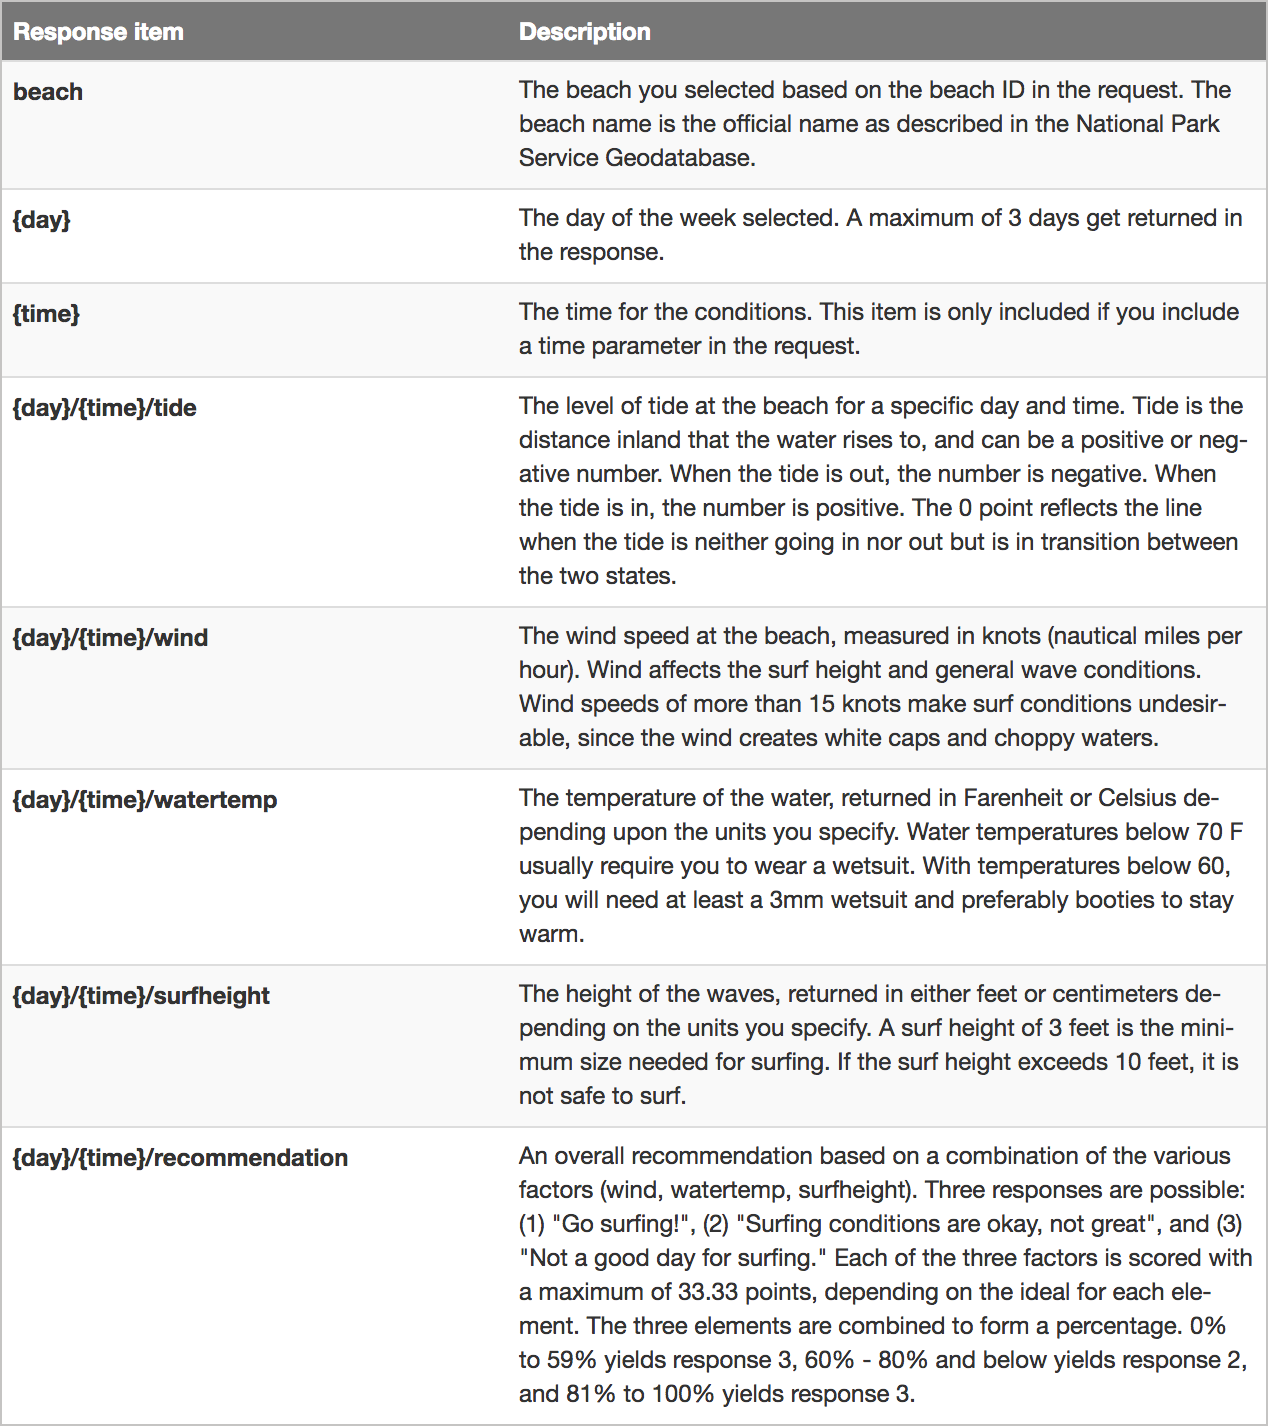
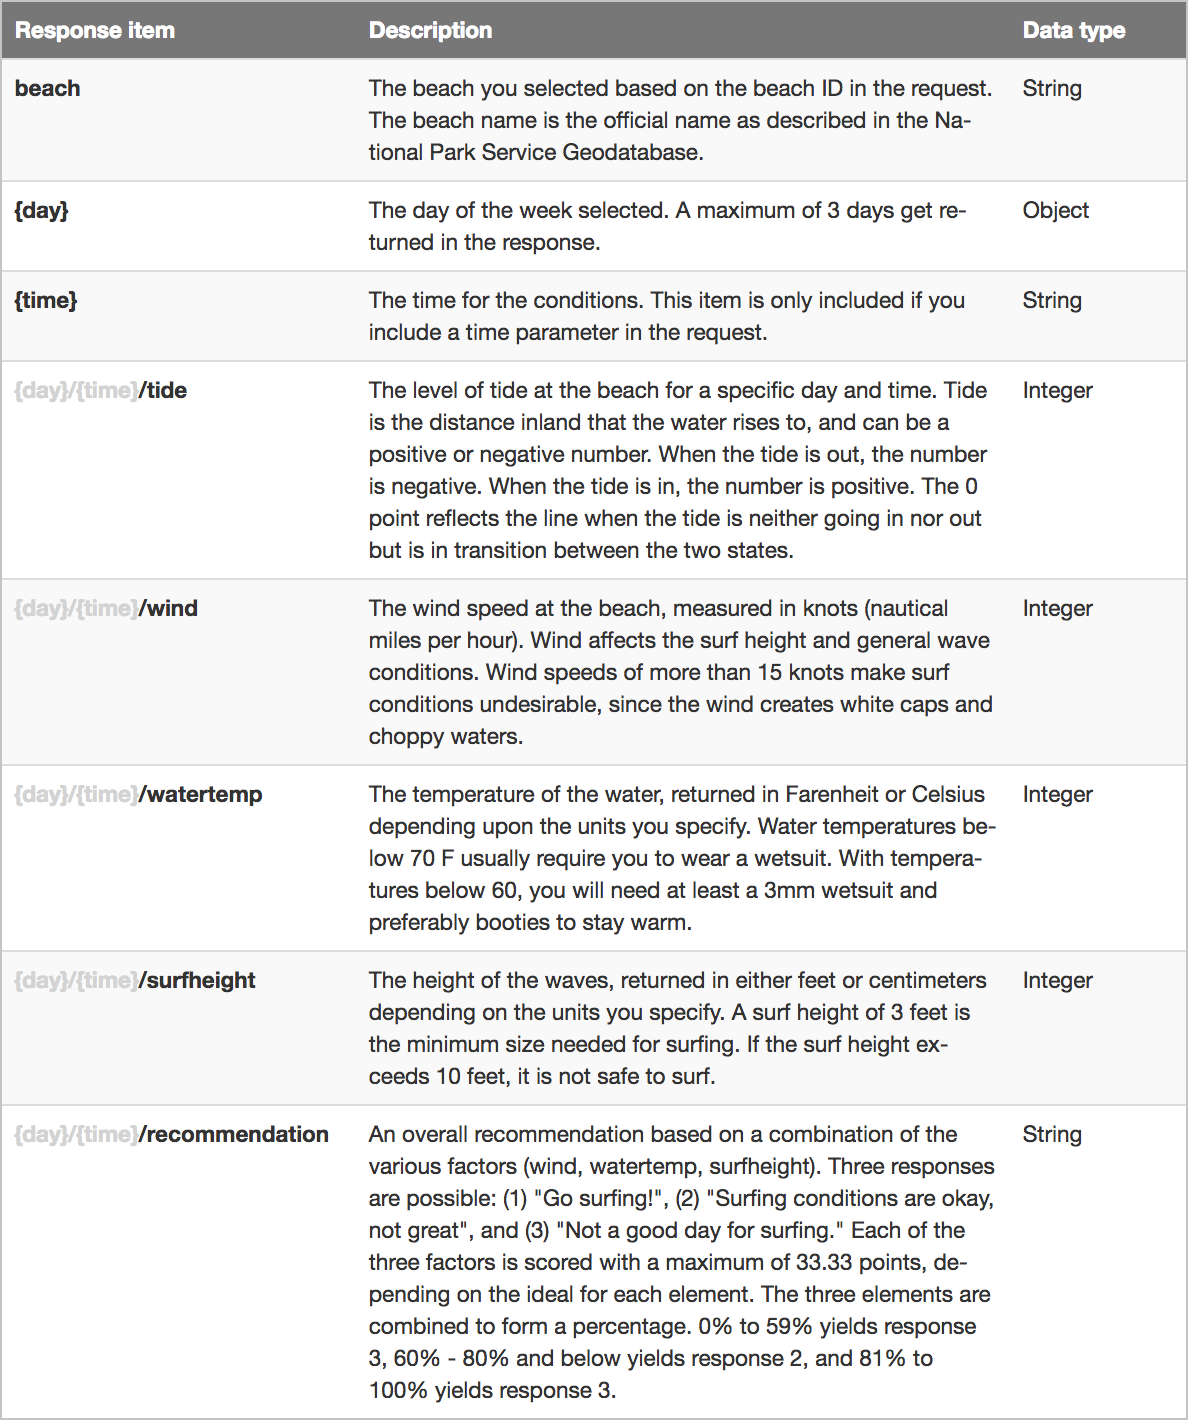
updates to final result for api ref sample

diff --git a/_sass/custom.scss b/_sass/custom.scss
@@ -39,7 +39,7 @@ i {
 }
 
 span.muted {
-    color: lightgray;
+    color: gray;
 }
 
 /* search */

diff --git a/_docs/documenting_rest_api_endpoints/docapis_finished_doc_result.md b/_docs/documenting_rest_api_endpoints/docapis_finished_doc_result.md
@@ -124,85 +124,141 @@ curl --get --include 'https://simple-weather.p.mashape.com/surfreport/123?units=
 }
 </pre>
 
+<h2>Sample response</h2>
+
+<p>The following is a sample response from the <code>surfreport/{beachId}</code> endpoint:</p>
+
+<pre class="json">
+{
+    "surfreport": [
+        {
+            "beach": "Santa Cruz",
+            "monday": {
+                "1pm": {
+                    "tide": 5,
+                    "wind": 15,
+                    "watertemp": 80,
+                    "surfheight": 5,
+                    "recommendation": "Go surfing!"
+                },
+                "2pm": {
+                    "tide": -1,
+                    "wind": 1,
+                    "watertemp": 50,
+                    "surfheight": 3,
+                    "recommendation": "Surfing conditions are okay, not great."
+                },
+                "3pm": {
+                    "tide": -1,
+                    "wind": 10,
+                    "watertemp": 65,
+                    "surfheight": 1,
+                    "recommendation": "Not a good day for surfing."
+                }
+            }
+        }
+    ]
+}
+</pre>
+
 <p>The following table describes each item in the response.</p>
 
 {% if site.format == "web" or site.format == "pdf" %}
-
-
 <table>
+<colgroup>
+   <col width="30%" />
+   <col width="55%" />
+   <col width="15%" />
+</colgroup>
 <thead>
 <tr>
 <th>Response item</th>
 <th>Description</th>
+<th>Data type</th>
 </tr>
-</thead>
-<tbody>
+</thead><tbody>
 <tr>
 <td><strong>beach</strong></td>
 <td>The beach you selected based on the beach ID in the request. The beach name is the official name as described in the National Park Service Geodatabase.</td>
+<td>String</td>
 </tr>
 <tr>
 <td><strong>{day}</strong></td>
 <td>The day of the week selected. A maximum of 3 days get returned in the response.</td>
+<td>Object</td>
 </tr>
 <tr>
 <td><strong>{time}</strong></td>
 <td>The time for the conditions. This item is only included if you include a time parameter in the request.</td>
+<td>String</td>
 </tr>
 <tr>
 <td><strong><span class="muted">{day}/{time}</span>/tide</strong></td>
 <td>The level of tide at the beach for a specific day and time. Tide is the distance inland that the water rises to, and can be a positive or negative number. When the tide is out, the number is negative. When the tide is in, the number is positive. The 0 point reflects the line when the tide is neither going in nor out but is in transition between the two states.</td>
+<td>Integer</td>
 </tr>
 <tr>
 <td><strong><span class="muted">{day}/{time}</span>/wind</strong></td>
-<td>The wind speed at the beach, measured in knots per hour or kilometers per hour depending on the units you specify. Wind affects the surf height and general wave conditions. Wind speeds of more than 15 knots per hour make surf conditions undesirable, since the wind creates white caps and choppy waters.</td>
+<td>The wind speed at the beach, measured in knots (nautical miles per hour). Wind affects the surf height and general wave conditions. Wind speeds of more than 15 knots make surf conditions undesirable, since the wind creates white caps and choppy waters.</td>
+<td>Integer</td>
 </tr>
 <tr>
 <td><strong><span class="muted">{day}/{time}</span>/watertemp</strong></td>
-<td>The temperature of the water, returned in Fahrenheit or Celsius depending upon the units you specify. Water temperatures below 70 F usually require you to wear a wetsuit. With temperatures below 60, you will need at least a 3mm wetsuit and preferably booties to stay warm.</td>
+<td>The temperature of the water, returned in Farenheit or Celsius depending upon the units you specify. Water temperatures below 70 F usually require you to wear a wetsuit. With temperatures below 60, you will need at least a 3mm wetsuit and preferably booties to stay warm.</td>
+<td>Integer</td>
 </tr>
 <tr>
 <td><strong><span class="muted">{day}/{time}</span>/surfheight</strong></td>
 <td>The height of the waves, returned in either feet or centimeters depending on the units you specify. A surf height of 3 feet is the minimum size needed for surfing. If the surf height exceeds 10 feet, it is not safe to surf.</td>
+<td>Integer</td>
 </tr>
 <tr>
 <td><strong><span class="muted">{day}/{time}</span>/recommendation</strong></td>
 <td>An overall recommendation based on a combination of the various factors (wind, watertemp, surfheight). Three responses are possible: (1) &quot;Go surfing!&quot;, (2) &quot;Surfing conditions are okay, not great&quot;, and (3) &quot;Not a good day for surfing.&quot; Each of the three factors is scored with a maximum of 33.33 points, depending on the ideal for each element. The three elements are combined to form a percentage. 0% to 59% yields response 3, 60% - 80% and below yields response 2, and 81% to 100% yields response 3.</td>
+<td>String</td>
 </tr>
-</tbody>
-</table>
+</tbody></table>
 
 {% elsif site.format == "kindle" %}
 
-{: .note}
-Tables don't display well on Kindle devices, so I've converted them into definition lists in this course. However, here I've also included an image of the table. Tables are more common and easier, but definition lists work better on mobile and tablet devices.
+<p class="note">Tables don't display well on Kindle devices, so I've converted them into definition lists in this course. However, here I've also included an image of the table. Tables are more common and easier to create, but definition lists work better on mobile and tablet devices.</p>
 
-<img src="images/kindle-table-finished-result-sample-response.png"/>
+<img src="images/kindle-table-surfreport.png" />
 
-`beach`
+<dl style="margin-top: 20px; margin-bottom: 20px;" markdown="block">
+<code>beach</code>
 :  The beach you selected based on the beach ID in the request. The beach name is the official name as described in the National Park Service Geodatabase.
+:  String
 
-`{day}`
+<code>{day}</code>
 :  The day of the week selected. A maximum of 3 days get returned in the response.
+:  Object
 
-`{time}`
+<code>{time}</code>
 :  The time for the conditions. This item is only included if you include a time parameter in the request.
+:  String
 
-<span class="muted"><code>{day}/{time}</code></span>/tide
+<code><span class="muted">{day}/{time}</span>/tide</code>
 :  The level of tide at the beach for a specific day and time. Tide is the distance inland that the water rises to, and can be a positive or negative number. When the tide is out, the number is negative. When the tide is in, the number is positive. The 0 point reflects the line when the tide is neither going in nor out but is in transition between the two states.
+:  Integer
 
-<span class="muted"><code>{day}/{time}</code></span>/wind
+<code><span class="muted">{day}/{time}</span>/wind</code>
 :  The wind speed at the beach, measured in knots (nautical miles per hour). Wind affects the surf height and general wave conditions. Wind speeds of more than 15 knots make surf conditions undesirable, since the wind creates white caps and choppy waters
+:  Integer
 
-<span class="muted"><code>{day}/{time}</code></span>/watertemp
+<code><span class="muted">{day}/{time}</span>/watertemp</code>
 :  The temperature of the water, returned in Farenheit or Celsius depending upon the units you specify. Water temperatures below 70 F usually require you to wear a wetsuit. With temperatures below 60, you will need at least a 3mm wetsuit and preferably booties to stay warm.
-{% else %}
+:  Integer
 
-<span class="muted"><code>{day}/{time}</code></span>/surfheight
+<code><span class="muted">{day}/{time}</span>/surfheight</code>
 :  The height of the waves, returned in either feet or centimeters depending on the units you specify. A surf height of 3 feet is the minimum size needed for surfing. If the surf height exceeds 10 feet, it is not safe to surf.
+:  Integer
 
-<span class="muted"><code>{day}/{time}</code></span>/recommendation
+<code><span class="muted">{day}/{time}</span>/recommendation</code>
 :  An overall recommendation based on a combination of the various factors (wind, watertemp, surfheight). Three responses are possible: (1) &quot;Go surfing!&quot;, (2) &quot;Surfing conditions are okay, not great&quot;, and (3) &quot;Not a good day for surfing.&quot; Each of the three factors is scored with a maximum of 33.33 points, depending on the ideal for each element. The three elements are combined to form a percentage. 0% to 59% yields response 3, 60% - 80% and below yields response 2, and 81% to 100% yields response 3.
+:  String
+
+</dl>
 {% endif %}
 
 

diff --git a/_docs/documenting_rest_api_endpoints/docapis_doc_sample_response.md b/_docs/documenting_rest_api_endpoints/docapis_doc_sample_response.md
@@ -149,7 +149,7 @@ Here's what mine looks like:
 
 <h2>Sample response</h2>
 
-The following is a sample response from the <code>surfreport/{beachId}</code> endpoint:
+<p>The following is a sample response from the <code>surfreport/{beachId}</code> endpoint:</p>
 
 <pre class="json">
 {
@@ -244,37 +244,44 @@ The following is a sample response from the <code>surfreport/{beachId}</code> en
 
 {% elsif site.format == "kindle" %}
 
-{: .note}
-Tables don't display well on Kindle devices, so I've converted them into definition lists in this course. However, here I've also included an image of the table. Tables are more common and easier to create, but definition lists work better on mobile and tablet devices.
+<p class="note">Tables don't display well on Kindle devices, so I've converted them into definition lists in this course. However, here I've also included an image of the table. Tables are more common and easier to create, but definition lists work better on mobile and tablet devices.</p>
 
 <img src="images/kindle-table-surfreport.png" />
 
-`beach`
+<dl style="margin-top: 20px; margin-bottom: 20px;" markdown="block">
+<code>beach</code>
 :  The beach you selected based on the beach ID in the request. The beach name is the official name as described in the National Park Service Geodatabase.
 :  String
 
-`{day}`
+<code>{day}</code>
 :  The day of the week selected. A maximum of 3 days get returned in the response.
-:  String
+:  Object
 
-`{time}`
+<code>{time}</code>
 :  The time for the conditions. This item is only included if you include a time parameter in the request.
 :  String
 
-<span class="muted"><code>{day}/{time}</code></span>/tide
+<code><span class="muted">{day}/{time}</span>/tide</code>
 :  The level of tide at the beach for a specific day and time. Tide is the distance inland that the water rises to, and can be a positive or negative number. When the tide is out, the number is negative. When the tide is in, the number is positive. The 0 point reflects the line when the tide is neither going in nor out but is in transition between the two states.
+:  Integer
 
-<span class="muted"><code>{day}/{time}</code></span>/wind
+<code><span class="muted">{day}/{time}</span>/wind</code>
 :  The wind speed at the beach, measured in knots (nautical miles per hour). Wind affects the surf height and general wave conditions. Wind speeds of more than 15 knots make surf conditions undesirable, since the wind creates white caps and choppy waters
+:  Integer
 
-<span class="muted"><code>{day}/{time}</code></span>/watertemp
+<code><span class="muted">{day}/{time}</span>/watertemp</code>
 :  The temperature of the water, returned in Farenheit or Celsius depending upon the units you specify. Water temperatures below 70 F usually require you to wear a wetsuit. With temperatures below 60, you will need at least a 3mm wetsuit and preferably booties to stay warm.
+:  Integer
 
-<span class="muted"><code>{day}/{time}</code></span>/surfheight
+<code><span class="muted">{day}/{time}</span>/surfheight</code>
 :  The height of the waves, returned in either feet or centimeters depending on the units you specify. A surf height of 3 feet is the minimum size needed for surfing. If the surf height exceeds 10 feet, it is not safe to surf.
+:  Integer
 
-<span class="muted"><code>{day}/{time}</code></span>/recommendation
+<code><span class="muted">{day}/{time}</span>/recommendation</code>
 :  An overall recommendation based on a combination of the various factors (wind, watertemp, surfheight). Three responses are possible: (1) &quot;Go surfing!&quot;, (2) &quot;Surfing conditions are okay, not great&quot;, and (3) &quot;Not a good day for surfing.&quot; Each of the three factors is scored with a maximum of 33.33 points, depending on the ideal for each element. The three elements are combined to form a percentage. 0% to 59% yields response 3, 60% - 80% and below yields response 2, and 81% to 100% yields response 3.
+:  String
+
+</dl>
 
 {% endif %}
 
